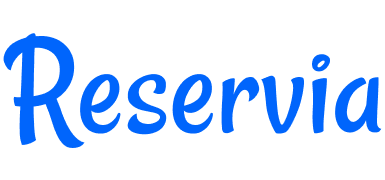
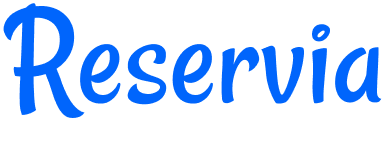
responsive header recherche
Mise en place du responsive
fait responsive header et section recherche
clean code
redimensionnement logo site

Changed region(s): [[0.0, 0.027, 0.9974, 0.8378], [0.0312, 0.7027, 0.0935, 0.8108], [0.0623, 0.6216, 0.0935, 0.6757]]

diff --git a/style.css b/style.css
@@ -16,7 +16,6 @@ a {
    color: black;
 }
 
-
 body {
    width : 100%;
 }
@@ -32,20 +31,17 @@ h1, h2 { /*h1 titre slogan, h2 titre section/article/aside*/
    font-weight: 700;
 }
 
-h3{ /*titre filtre, afficher plus et titres footer*/
+h3, input, label{ /*titre filtre, afficher plus, titres footer, boutons*/
    font-size: 1.37vw;
    font-weight: 700;
-   /*padding variable selon section*/
 }
-
 
 h4 { /*titre des cartes*/
    font-size: 1.23vw;
    font-weight: 700;
 }
 
-
-p {
+p, li {
    font-size: 1.23vw;
 }
 
@@ -53,17 +49,37 @@ p {
    font-size: 1.1vw;
 }
 
-input {
-   font-size: 1.37vw;
-}
-label {
+input, label {
    font-size: 1.37vw;
 }
 
 
-li { /*footer*/
-   font-size: 1.23vw;
+@media only screen and (max-width: 499px) {
+   body>* {
+      padding: 0 5.6vw /*pas de scrollbar ici*/ 
+   }
+   
+   h1, h2 { /*h1 titre slogan, h2 titre section/article/aside*/
+      font-size: 5.8vw;
+   }
+   
+   h3, h4, input{ /*titre filtre, afficher plus et titres footer*//*titre des cartes*/
+      font-size: 4.6vw;
+   }
+   label {
+      font-size: 4vw;
+   }
+   
+   p, li {
+      font-size: 4vw;
+   }
+   
+   .vignette__legende p {
+      font-size: 3.6vw;
+   }
 }
+
+
 
 /*--------------------------------------*/
 /* Propriété des éléments dans le header*/
@@ -82,7 +98,6 @@ li { /*footer*/
    padding-top: 3.42vw;
 }
 
-
 #logoSite img{
    width: 6.51vw;
 }
@@ -100,7 +115,6 @@ cliquable sur la totalité de la surface et que le texte soit centré à l'inté
    display: flex;
    justify-content: center;
    align-items: center;
-   color: black;
 }
 
 #menu a:nth-child(1){
@@ -119,14 +133,56 @@ cliquable sur la totalité de la surface et que le texte soit centré à l'inté
    font-weight: bold;
 }
 
+@media only screen and (max-width: 499px) {
+   #header {
+      height: 35.46vw;
+      flex-wrap: wrap;
+      align-content: flex-end;
+      margin-bottom: 9.33vw;
+   }
+
+   #logoSite {
+      flex-grow:unset;
+      align-self: unset;
+      padding-top: unset;
+   }
+   
+   #logoSite img{
+      width: 25.6vw;
+   }
+
+   #menu {
+      order: 3;
+      width: 100vw;
+      margin-left: -5.6vw; /*compense le padding du header*/
+   }
+
+   #menu a{
+      width: 50vw;
+      height: 16.8vw;
+      border-top: none;
+      border-bottom: 0.8vw #F2F2F2 solid;
+   }
+   
+   #menu a:nth-child(1){
+      color:#0065FC;
+      border-top: none;
+      border-bottom:0.8vw #0065FC solid;
+   }
+
+   #inscription a{
+      width: unset;
+      height: unset;
+   }
+}
+
 
 /*-------------------------------------------------*/
 /* Propriété des éléments dans la section recherche*/
 /*-------------------------------------------------*/
 
-
-#recherche {
-   white-space: nowrap;
+#recherche{
+   margin-bottom: 2.53vw;
 }
 
 #slogan {
@@ -159,7 +215,6 @@ cliquable sur la totalité de la surface et que le texte soit centré à l'inté
    height : 3.42vw;
    width : 16.03vw; 
    padding : 1.23vw;
-   font-weight: 700;
    border: 0.07vw #F2F2F2 solid; 
    overflow: hidden;
    
@@ -173,7 +228,6 @@ cliquable sur la totalité de la surface et que le texte soit centré à l'inté
    padding: 0 1.23vw;
    background-color: #0065FC;
    color: white;
-   font-weight: 700;
    border: 0.07vw #0065FC solid;
    border-radius: 0 0.82vw 0.82vw 0;
    overflow: hidden;
@@ -183,8 +237,6 @@ cliquable sur la totalité de la surface et que le texte soit centré à l'inté
 
 #logoRecherche{
    display: none; /*ne sert que pour la version mobile*/
-   width: 20px;
-   height: 20px; 
  }
 
 #filtres{
@@ -207,7 +259,6 @@ cliquable sur la totalité de la surface et que le texte soit centré à l'inté
    align-items: center;
    border : 0.14vw #F2F2F2 solid;
    border-radius: 1.71vw;
-   font-weight: 700;
    padding-right: 1.51vw;
    white-space: nowrap ;
    cursor: pointer;
@@ -226,7 +277,6 @@ cliquable sur la totalité de la surface et que le texte soit centré à l'inté
 .logoFiltre {
    height: 3.42vw;
    width: 3.42vw;
-   min-width: 3.42vw; /*sinon en zoomant la bulle s'applatit (cause flexbox)*/
    border-radius: 1.71vw;
    background-color: #deebff;
    display: flex;
@@ -244,14 +294,12 @@ cliquable sur la totalité de la surface et que le texte soit centré à l'inté
 
 
 #nbResultats {
-   margin-bottom: 2.53vw;
    display: flex;
    align-items: center;
-   white-space: nowrap;
+
 }
 
 #nbResultats div {
-   min-width: 1.64vw; /*sinon en zoomant la bulle s'applatit (cause flexbox)*/
    width: 1.64vw;
    height: 1.64vw;
    border: 0.07vw #F2F2F2 solid;
@@ -268,7 +316,125 @@ cliquable sur la totalité de la surface et que le texte soit centré à l'inté
  }
 
 
+ @media only screen and (max-width: 499px) {
+   #recherche{
+      margin-bottom: 9.6vw;
+   }
 
+   #slogan {
+      margin-bottom : 9.07vw;
+   }
+   
+   #slogan h1 {
+      padding-bottom: 4vw;
+   }
+   
+   #barreRecherche {
+      height: 13.6vw; 
+      display: flex;
+      align-items: center;
+      width: 88.8vw;
+      margin-bottom : 10vw;
+   }
+   
+   
+   #logoLocaliser{
+      width: 13.86vw;
+      height: 13.6vw;
+      padding: 4.53vw 5.07vw;
+      border-width: 0.27vw;
+      border-radius: 3.47vw 0 0 3.47vw;
+   }
+   
+   #inputRecherche {
+      height : 13.6vw;
+      width : 65.3vw; 
+      padding : 4.8vw;
+      border-width: 0.27vw;
+   }
+   
+   #submitRecherche {
+      display: none;
+   }
+   
+   #logoRecherche{
+      display: unset;
+      width: 13.6vw;
+      height: 13.6vw;
+      padding: 4.53vw;
+      background-color: #0065FC;
+      border: 0.27vw #0065FC solid;
+      border-radius: 3.47vw;
+      margin-left: -3.47vw; /*pour recouvrir l'input*/
+    }
+
+
+
+    #filtres{
+      margin-bottom : 4.8vw; /*tient compte de la marge des boutons filtres*/
+      align-items: flex-start;
+      flex-wrap: wrap;
+   }
+
+   #filtres h3 {
+      width: 88.8vw;
+      margin-bottom: 4vw;
+   }
+
+   .boutonFiltre + label {
+      height: 13.33vw;
+      Margin-left: unset;
+      border-width : 0.53vw;
+      border-radius: 6.67vw;
+      padding-right: 4.8vw;
+      margin-bottom: 3.47vw;
+      margin-right: 2.93vw;
+   }
+   
+   .logoFiltre {
+      height: 13.33vw;
+      width: 13.33vw;
+      border-radius: 6.67vw;
+      margin-right: 3.2vw;
+      margin-left: -0.53vw; /*Compense la bordure*/
+   }
+   
+   .logoFiltre img {
+      width: 5.6vw;
+      height: 5.6vw;
+      margin: auto;
+    }
+
+
+    #nbResultats {
+      justify-content: space-between;
+      align-items: flex-start;
+   }
+   
+   #nbResultats div {
+      width: 6.4vw;
+      height: 6.4vw;
+      border-width: 0.27vw;
+      border-radius: 3.2vw;
+      margin-right: unset;
+   }
+   
+   #nbResultats img{
+      width: 3.2vw;
+      height: 3.2vw;
+    }
+
+    #nbResultats p {
+       width: 78.67vw;
+       margin-top: 0.8vw; /*Pour aligner sur le logo i*/
+    }
+
+
+
+   #heberg {
+      flex-direction: column;
+   }
+ }
 
 
 /*----------------------------------------------------*/

diff --git a/index.html b/index.html
@@ -30,7 +30,7 @@
 <section id ="recherche">
     <!--Première section avec le slogan, la barre de recherche, les filtre et le nombre de réasutats-->
     <div id="slogan">
-        <h1>Trouvez votre hébergement pour des vacances de rêves</h1>
+        <h1>Trouvez votre hébergement pour des vacances de rêve</h1>
         <p>En plein centre ville ou en pleine nature</p>
     </div>
 
